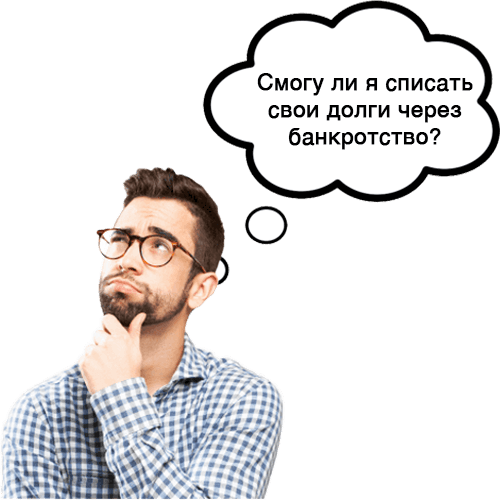
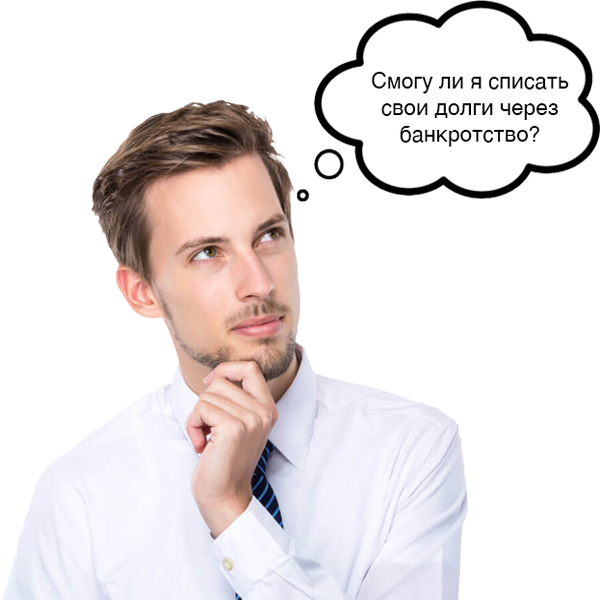
Новый блок правка 1

diff --git a/projects/bez-dolgov/index.html b/projects/bez-dolgov/index.html
@@ -8,8 +8,8 @@
     <meta name="format-detection" content="email=no">
     <meta name="viewport" content="width=device-width, initial-scale=1, shrink-to-fit=no, user-scalable=no">
     <link href="https://fonts.googleapis.com/css2?family=Montserrat:wght@300;400;600;700&display=swap" rel="stylesheet">
-    <link rel="stylesheet" href="css/main.depends.css?v=008">
-    <link rel="stylesheet" href="css/main.css?v=008">
+    <link rel="stylesheet" href="css/main.depends.css?v=009">
+    <link rel="stylesheet" href="css/main.css?v=009">
     <title>Без кредитов</title>
 </head>
 <body>
@@ -113,20 +113,23 @@
     </div><!-- .header-body -->
 </header>
 
-<div class="block-divider bg"></div>
+<section class="section bg">
+	<div class="container">
+		<h2 class="h1 center">Бесплатный онлайн тест на списание долгов от портала&nbsp;«Без&nbsp;Кредитов»</h2>
+	</div><!-- .container -->
+</section><!-- .section -->
 
 <section class="section">
 	<div class="container">
 		<div class="row align-items-center">
 			<div class="col-auto mx-auto m-md-0">
 				<div class="img-wrap-circle">
-					<img width="300" height="300" src="img/man-a.png">
+					<img width="330" height="330" src="img/man-a.png?v=1">
 				</div>
 			</div><!-- .col -->
 			<div class="col-12 col-md offset-md-1">
-				<h2 class="center">Бесплатный онлайн тест на списание долгов от портала&nbsp;«Без&nbsp;Кредитов»</h2>
+				<h2 class="center">Хватит думать пора действовать!</h2>
 				<div class="wall arrow-md">
-					<p><strong>Хватит думать пора действовать!</strong></p>
 					<p>Пройдите бесплатны онлайн тест и получите предварительное решение о списаниии ваших долгов арямо на почту.</p>
 				</div><!-- .wall -->
 				<div class="row justify-content-center">

diff --git a/projects/bez-dolgov/konsult.html b/projects/bez-dolgov/konsult.html
@@ -8,8 +8,8 @@
     <meta name="format-detection" content="email=no">
     <meta name="viewport" content="width=device-width, initial-scale=1, shrink-to-fit=no, user-scalable=no">
     <link href="https://fonts.googleapis.com/css2?family=Montserrat:wght@300;400;600;700&display=swap" rel="stylesheet">
-    <link rel="stylesheet" href="css/main.depends.css?v=008">
-    <link rel="stylesheet" href="css/main.css?v=008">
+    <link rel="stylesheet" href="css/main.depends.css?v=009">
+    <link rel="stylesheet" href="css/main.css?v=009">
     <title>Без кредитов</title>
 </head>
 <body>

diff --git a/projects/bez-dolgov/kontakt.html b/projects/bez-dolgov/kontakt.html
@@ -8,8 +8,8 @@
     <meta name="format-detection" content="email=no">
     <meta name="viewport" content="width=device-width, initial-scale=1, shrink-to-fit=no, user-scalable=no">
     <link href="https://fonts.googleapis.com/css2?family=Montserrat:wght@300;400;600;700&display=swap" rel="stylesheet">
-    <link rel="stylesheet" href="css/main.depends.css?v=008">
-    <link rel="stylesheet" href="css/main.css?v=008">
+    <link rel="stylesheet" href="css/main.depends.css?v=009">
+    <link rel="stylesheet" href="css/main.css?v=009">
     <title>Без кредитов</title>
 </head>
 <body>

diff --git a/projects/bez-dolgov/material.html b/projects/bez-dolgov/material.html
@@ -8,8 +8,8 @@
     <meta name="format-detection" content="email=no">
     <meta name="viewport" content="width=device-width, initial-scale=1, shrink-to-fit=no, user-scalable=no">
     <link href="https://fonts.googleapis.com/css2?family=Montserrat:wght@300;400;600;700&display=swap" rel="stylesheet">
-    <link rel="stylesheet" href="css/main.depends.css?v=008">
-    <link rel="stylesheet" href="css/main.css?v=008">
+    <link rel="stylesheet" href="css/main.depends.css?v=009">
+    <link rel="stylesheet" href="css/main.css?v=009">
     <title>Без кредитов</title>
 </head>
 <body>

diff --git a/projects/bez-dolgov/novost-1.html b/projects/bez-dolgov/novost-1.html
@@ -8,8 +8,8 @@
     <meta name="format-detection" content="email=no">
     <meta name="viewport" content="width=device-width, initial-scale=1, shrink-to-fit=no, user-scalable=no">
     <link href="https://fonts.googleapis.com/css2?family=Montserrat:wght@300;400;600;700&display=swap" rel="stylesheet">
-    <link rel="stylesheet" href="css/main.depends.css?v=008">
-    <link rel="stylesheet" href="css/main.css?v=008">
+    <link rel="stylesheet" href="css/main.depends.css?v=009">
+    <link rel="stylesheet" href="css/main.css?v=009">
     <title>Без кредитов</title>
 </head>
 <body>

diff --git a/projects/bez-dolgov/novosti.html b/projects/bez-dolgov/novosti.html
@@ -8,8 +8,8 @@
     <meta name="format-detection" content="email=no">
     <meta name="viewport" content="width=device-width, initial-scale=1, shrink-to-fit=no, user-scalable=no">
     <link href="https://fonts.googleapis.com/css2?family=Montserrat:wght@300;400;600;700&display=swap" rel="stylesheet">
-    <link rel="stylesheet" href="css/main.depends.css?v=008">
-    <link rel="stylesheet" href="css/main.css?v=008">
+    <link rel="stylesheet" href="css/main.depends.css?v=009">
+    <link rel="stylesheet" href="css/main.css?v=009">
     <title>Без кредитов</title>
 </head>
 <body>

diff --git a/projects/bez-dolgov/o-proekte.html b/projects/bez-dolgov/o-proekte.html
@@ -8,8 +8,8 @@
     <meta name="format-detection" content="email=no">
     <meta name="viewport" content="width=device-width, initial-scale=1, shrink-to-fit=no, user-scalable=no">
     <link href="https://fonts.googleapis.com/css2?family=Montserrat:wght@300;400;600;700&display=swap" rel="stylesheet">
-    <link rel="stylesheet" href="css/main.depends.css?v=008">
-    <link rel="stylesheet" href="css/main.css?v=008">
+    <link rel="stylesheet" href="css/main.depends.css?v=009">
+    <link rel="stylesheet" href="css/main.css?v=009">
     <title>Без кредитов</title>
 </head>
 <body>

diff --git a/projects/bez-dolgov/otzivi.html b/projects/bez-dolgov/otzivi.html
@@ -8,8 +8,8 @@
     <meta name="format-detection" content="email=no">
     <meta name="viewport" content="width=device-width, initial-scale=1, shrink-to-fit=no, user-scalable=no">
     <link href="https://fonts.googleapis.com/css2?family=Montserrat:wght@300;400;600;700&display=swap" rel="stylesheet">
-    <link rel="stylesheet" href="css/main.depends.css?v=008">
-    <link rel="stylesheet" href="css/main.css?v=008">
+    <link rel="stylesheet" href="css/main.depends.css?v=009">
+    <link rel="stylesheet" href="css/main.css?v=009">
     <title>Без кредитов</title>
 </head>
 <body>

diff --git a/projects/bez-dolgov/uznat.html b/projects/bez-dolgov/uznat.html
@@ -8,8 +8,8 @@
     <meta name="format-detection" content="email=no">
     <meta name="viewport" content="width=device-width, initial-scale=1, shrink-to-fit=no, user-scalable=no">
     <link href="https://fonts.googleapis.com/css2?family=Montserrat:wght@300;400;600;700&display=swap" rel="stylesheet">
-    <link rel="stylesheet" href="css/main.depends.css?v=008">
-    <link rel="stylesheet" href="css/main.css?v=008">
+    <link rel="stylesheet" href="css/main.depends.css?v=009">
+    <link rel="stylesheet" href="css/main.css?v=009">
     <title>Без кредитов</title>
 </head>
 <body>

diff --git a/projects/bez-dolgov/zakon.html b/projects/bez-dolgov/zakon.html
@@ -8,8 +8,8 @@
     <meta name="format-detection" content="email=no">
     <meta name="viewport" content="width=device-width, initial-scale=1, shrink-to-fit=no, user-scalable=no">
     <link href="https://fonts.googleapis.com/css2?family=Montserrat:wght@300;400;600;700&display=swap" rel="stylesheet">
-    <link rel="stylesheet" href="css/main.depends.css?v=008">
-    <link rel="stylesheet" href="css/main.css?v=008">
+    <link rel="stylesheet" href="css/main.depends.css?v=009">
+    <link rel="stylesheet" href="css/main.css?v=009">
     <title>Без кредитов</title>
 </head>
 <body>
